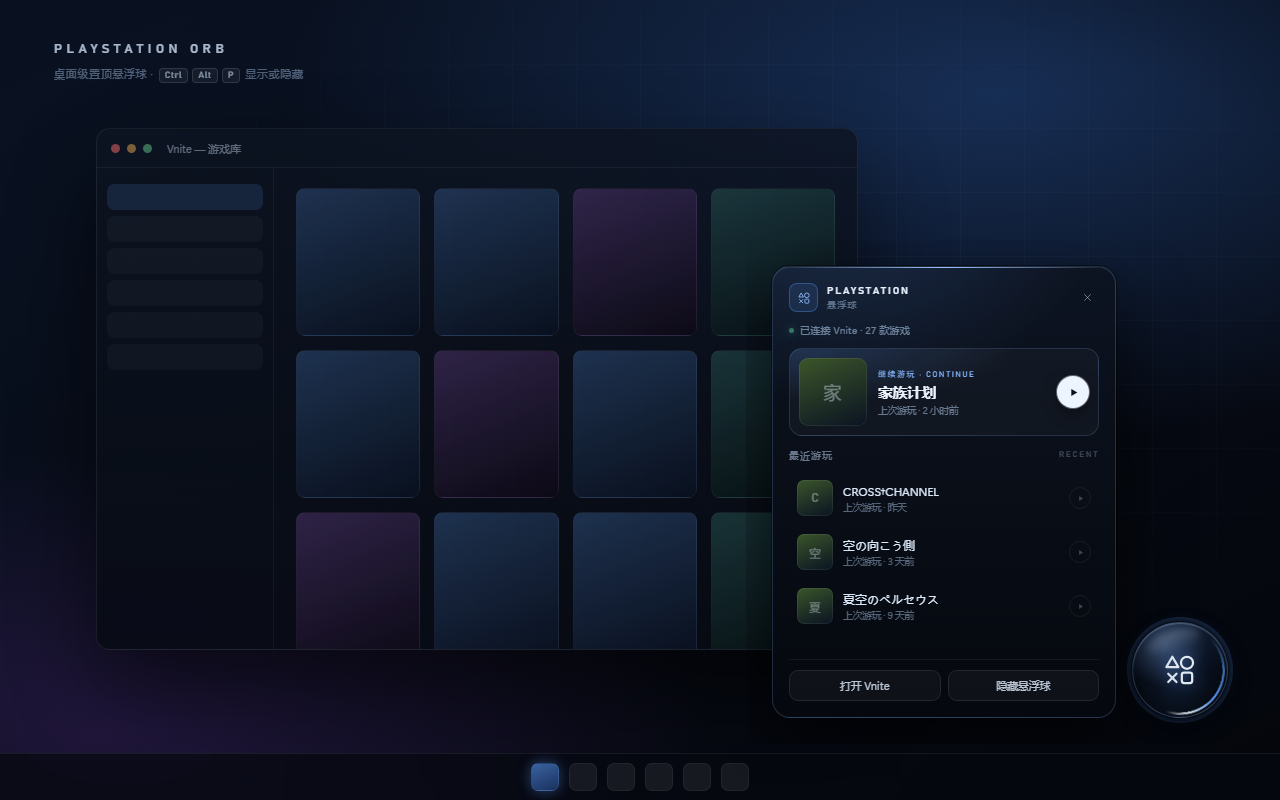
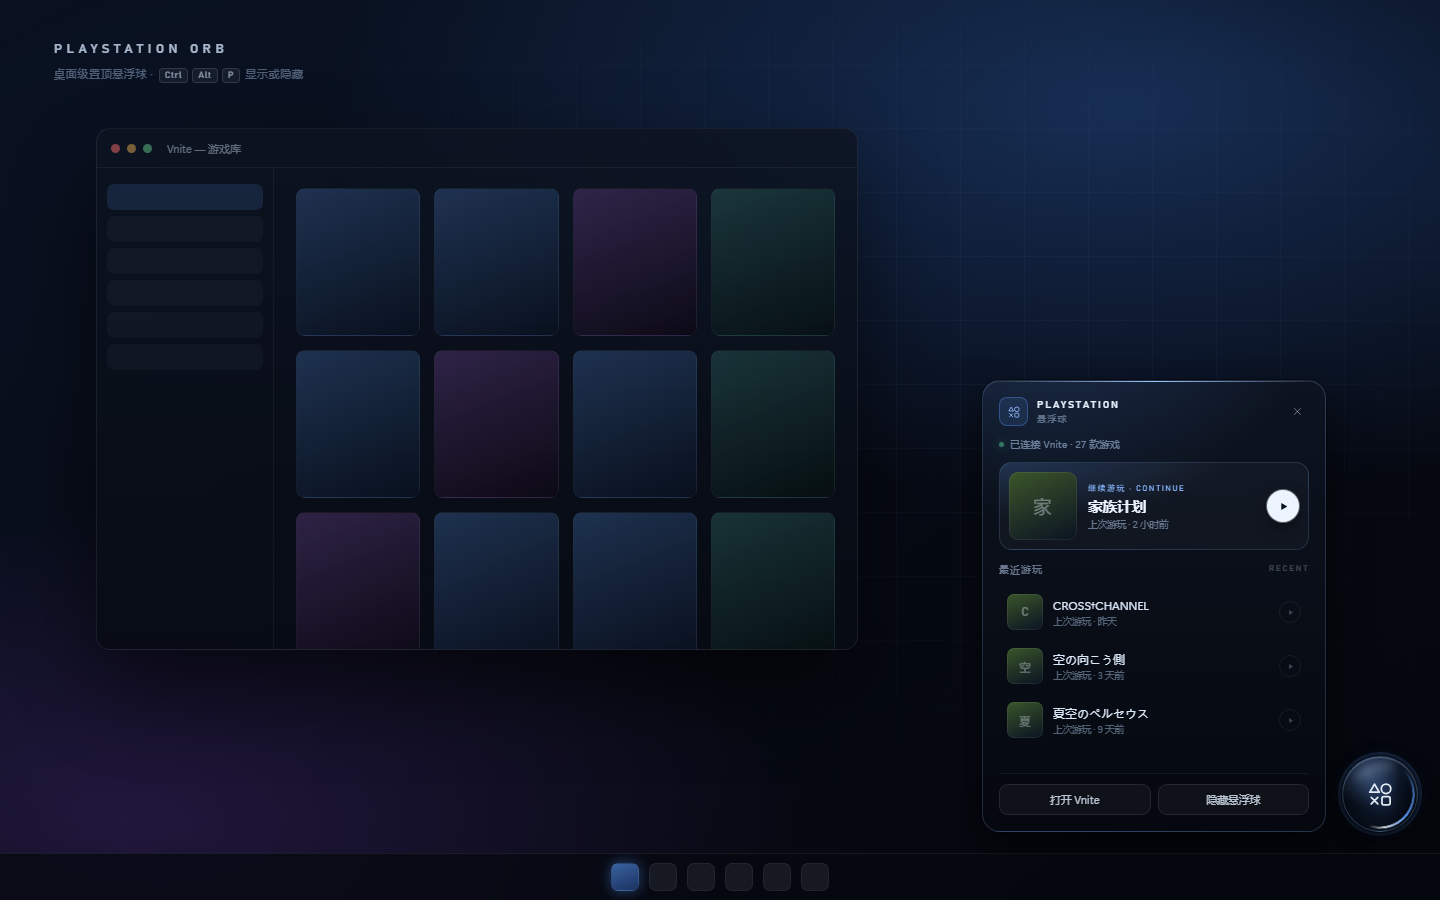
fix: 悬浮球缩小尺寸并修复点击展开时的闪动
窗口改为固定展开尺寸，展开/收起不再 setBounds；透明区域用 setIgnoreMouseEvents 穿透，点击时球体不再跳动。

diff --git a/plugin/orb.js b/plugin/orb.js
@@ -30,8 +30,9 @@
     closing: false,
     launching: false,
     dragging: false,
-    size: 96,
-    pad: 14,
+    size: 76,
+    pad: 22,
+    gap: 16,
     panelW: 344,
     panelH: 452,
     sound: true,
@@ -95,32 +96,67 @@
   function applyLayout(payload) {
     if (!payload) return;
     if (Number(payload.pad)) state.pad = Number(payload.pad);
+    if (Number(payload.gap)) state.gap = Number(payload.gap);
     if (Number(payload.orbSize)) state.size = Number(payload.orbSize);
     if (Number(payload.panelWidth)) state.panelW = Number(payload.panelWidth);
     if (Number(payload.panelHeight)) state.panelH = Number(payload.panelHeight);
     root.style.setProperty('--pad', `${state.pad}px`);
+    root.style.setProperty('--gap', `${state.gap}px`);
     root.style.setProperty('--orb-size', `${state.size}px`);
     root.style.setProperty('--panel-w', `${state.panelW}px`);
     root.style.setProperty('--panel-h', `${state.panelH}px`);
     if (payload.accent) root.dataset.accent = payload.accent;
     if (payload.side) root.dataset.side = payload.side;
-    if (payload.vertical) root.dataset.vertical = payload.vertical;
+    if (payload.anchor) root.dataset.anchor = payload.anchor;
   }
 
-  function placeOrb({ open, width, height } = {}) {
-    const w = width || window.innerWidth;
-    const h = height || window.innerHeight;
-    const { pad, size, panelW, panelH } = state;
-    if (!open) {
-      orb.style.left = `${pad}px`;
-      orb.style.top = `${pad}px`;
+  // 透明窗口固定为展开尺寸，只有悬浮球与面板区域接收鼠标，其余区域穿透到桌面。
+  let ignoring = null;
+  const pointer = { x: -1, y: -1 };
+
+  function setIgnore(next) {
+    if (ignoring === next) return;
+    ignoring = next;
+    api.setIgnore(next);
+  }
+
+  function inside(el, x, y, grow = 0) {
+    const rect = el.getBoundingClientRect();
+    if (!rect.width || !rect.height) return false;
+    return x >= rect.left - grow && x <= rect.right + grow && y >= rect.top - grow && y <= rect.bottom + grow;
+  }
+
+  function interactiveAt(x, y) {
+    if (inside(orb, x, y, 4)) return true;
+    return !panel.hidden && inside(panel, x, y);
+  }
+
+  function syncIgnore() {
+    if (state.dragging || press) return;
+    if (pointer.x < 0) {
+      setIgnore(true);
       return;
     }
-    orb.style.left = `${root.dataset.side === 'left' ? w - pad - size : pad}px`;
-    orb.style.top = `${root.dataset.vertical === 'above' ? h - pad - size : pad}px`;
-    panel.style.left = `${root.dataset.side === 'left' ? pad : w - pad - panelW}px`;
-    panel.style.top = `${root.dataset.vertical === 'above' ? pad : h - pad - panelH}px`;
+    setIgnore(!interactiveAt(pointer.x, pointer.y));
   }
+
+  let ignoreFrame = 0;
+
+  window.addEventListener('mousemove', event => {
+    pointer.x = event.clientX;
+    pointer.y = event.clientY;
+    if (ignoreFrame) return;
+    ignoreFrame = window.requestAnimationFrame(() => {
+      ignoreFrame = 0;
+      syncIgnore();
+    });
+  });
+
+  window.addEventListener('mouseleave', () => {
+    pointer.x = -1;
+    pointer.y = -1;
+    syncIgnore();
+  });
 
   // ————— 数据 —————
   function relative(iso) {
@@ -253,42 +289,33 @@
   // ————— 展开 / 收起 —————
   async function expand() {
     if (state.expanded || state.closing) return;
+    state.expanded = true;
     play('open');
-    let layout;
     try {
-      layout = await api.expand();
+      applyLayout(await api.expand());
     } catch (error) {
       setStatus('无法展开菜单', 'error');
-      return;
     }
-    applyLayout(layout);
-    state.expanded = true;
-    placeOrb({ open: true, width: layout?.width, height: layout?.height });
     panel.hidden = false;
     window.requestAnimationFrame(() => panel.classList.add('is-open'));
+    syncIgnore();
     await refresh();
   }
 
-  async function collapse({ silent = false } = {}) {
+  function collapse({ silent = false } = {}) {
     if (!state.expanded || state.closing) return;
     state.closing = true;
     state.launching = false;
     if (!silent) play('close');
     panel.classList.remove('is-open');
     state.expanded = false;
-    window.setTimeout(async () => {
+    Promise.resolve(api.collapse()).then(applyLayout).catch(() => {});
+    window.setTimeout(() => {
       panel.hidden = true;
       launchLayer.hidden = true;
-      let layout = null;
-      try {
-        layout = await api.collapse();
-      } catch (error) {
-        /* 窗口可能已经隐藏 */
-      }
-      applyLayout(layout);
-      placeOrb({ open: false, width: layout?.width, height: layout?.height });
       state.closing = false;
-    }, 170);
+      syncIgnore();
+    }, 180);
   }
 
   function hardCollapse() {
@@ -298,7 +325,7 @@
     panel.classList.remove('is-open');
     panel.hidden = true;
     launchLayer.hidden = true;
-    placeOrb({ open: false });
+    syncIgnore();
   }
 
   // ————— 操作 —————
@@ -390,6 +417,8 @@
     if (orb.hasPointerCapture(event.pointerId)) orb.releasePointerCapture(event.pointerId);
     if (moved) {
       api.dragEnd();
+      // 松手时指针就在球上，保持在可点击状态，等下一次移动再重新判定。
+      setIgnore(false);
       return;
     }
     play('tap');
@@ -401,6 +430,7 @@
   orb.addEventListener('pointercancel', event => {
     if (!press) return;
     press = null;
+    state.dragging = false;
     orb.classList.remove('is-press', 'is-dragging');
     if (event.pointerId !== undefined && orb.hasPointerCapture(event.pointerId)) {
       orb.releasePointerCapture(event.pointerId);
@@ -431,7 +461,7 @@
     if (event.key === 'Escape' && state.expanded) collapse();
   });
 
-  window.addEventListener('resize', () => placeOrb({ open: state.expanded }));
+  api.onLayout(payload => applyLayout(payload));
   api.onBlur(() => collapse({ silent: true }));
   api.onForceCollapse(() => hardCollapse());
 
@@ -441,9 +471,9 @@
       state.sound = data.sound !== false;
       applyLayout(data);
       render(data);
-      placeOrb({ open: false });
+      setIgnore(true);
       if (window.__PS_ORB_DEMO__) {
-        await new Promise(resolve => window.setTimeout(resolve, 280));
+        await new Promise(resolve => window.setTimeout(resolve, 320));
         await expand();
       }
     } catch (error) {
@@ -466,24 +496,29 @@
     const base = {
       games,
       total: 27,
-      orbSize: 96,
-      pad: 26,
+      orbSize: 76,
+      pad: 22,
+      gap: 16,
       panelWidth: 344,
       panelHeight: 452,
       accent: 'blue',
+      side: 'left',
+      anchor: 'bottom',
       sound: false
     };
     return {
-      bootstrap: async () => ({ ...base, width: 148, height: 148 }),
+      bootstrap: async () => base,
       games: async () => base,
-      expand: async () => ({ ...base, width: 508, height: 504, side: 'left', vertical: 'above' }),
-      collapse: async () => ({ ...base, width: 148, height: 148 }),
+      expand: async () => base,
+      collapse: async () => base,
       dragStart: () => {},
       dragMove: () => {},
       dragEnd: () => {},
+      setIgnore: () => {},
       launch: async () => ({ ok: true }),
       openVnite: async () => true,
       hide: async () => true,
+      onLayout: () => {},
       onBlur: () => {},
       onForceCollapse: () => {}
     };

diff --git a/plugin/orb.css b/plugin/orb.css
@@ -1,7 +1,8 @@
 :root {
   --accent: #5b9dff;
-  --orb-size: 96px;
-  --pad: 14px;
+  --orb-size: 76px;
+  --pad: 22px;
+  --gap: 16px;
   --panel-w: 344px;
   --panel-h: 452px;
 }
@@ -60,7 +61,7 @@ body {
 .orb {
   position: absolute;
   left: var(--pad);
-  top: var(--pad);
+  bottom: var(--pad);
   z-index: 2;
   display: block;
   width: var(--orb-size);
@@ -73,8 +74,19 @@ body {
   touch-action: none;
 }
 
+/* 面板在悬浮球左侧时，悬浮球贴窗口右边 */
+[data-side="left"] .orb {
+  left: calc(var(--pad) + var(--panel-w) + var(--gap));
+}
+
+/* 面板在悬浮球下方时，悬浮球贴窗口顶部 */
+[data-anchor="top"] .orb {
+  top: var(--pad);
+  bottom: auto;
+}
+
 .orb:hover {
-  transform: scale(1.045);
+  transform: scale(1.03);
 }
 
 .orb:focus {
@@ -82,22 +94,22 @@ body {
 }
 
 .orb:focus-visible .orb-shell {
-  border-color: rgba(196, 222, 255, 0.52);
+  border-color: rgba(196, 222, 255, 0.42);
   box-shadow:
     inset 0 1px 1px rgba(255, 255, 255, 0.25),
     inset 0 -14px 26px rgba(0, 0, 0, 0.6),
     0 8px 20px rgba(0, 0, 0, 0.5),
-    0 0 0 2px color-mix(in srgb, var(--accent) 55%, transparent);
+    0 0 0 1px color-mix(in srgb, var(--accent) 50%, transparent);
 }
 
 .orb.is-press {
-  transform: scale(0.93);
+  transform: scale(0.95);
   transition-duration: 0.09s;
 }
 
 .orb.is-dragging {
   cursor: grabbing;
-  transform: scale(0.96);
+  transform: scale(0.97);
 }
 
 .orb-halo {
@@ -190,6 +202,8 @@ body {
 .panel {
   position: absolute;
   z-index: 3;
+  left: var(--pad);
+  top: var(--pad);
   display: flex;
   flex-direction: column;
   gap: 11px;
@@ -203,27 +217,30 @@ body {
     radial-gradient(130% 80% at 20% -18%, color-mix(in srgb, var(--accent) 20%, transparent), transparent 60%),
     linear-gradient(180deg, rgba(13, 20, 33, 0.975), rgba(5, 8, 14, 0.99));
   box-shadow:
-    0 30px 70px rgba(0, 0, 0, 0.66),
+    0 18px 44px rgba(0, 0, 0, 0.62),
     0 0 0 1px rgba(0, 0, 0, 0.42),
     inset 0 1px 0 rgba(255, 255, 255, 0.08);
   opacity: 0;
-  transform: scale(0.86);
+  transform: scale(0.88);
   transform-origin: 100% 100%;
   pointer-events: none;
-  transition: opacity 0.2s ease, transform 0.28s cubic-bezier(0.22, 1, 0.28, 1);
+  transition: opacity 0.18s ease, transform 0.26s cubic-bezier(0.22, 1, 0.28, 1);
   -webkit-app-region: no-drag;
   app-region: no-drag;
 }
 
+/* 面板在悬浮球右侧 */
 [data-side="right"] .panel {
+  left: calc(var(--pad) + var(--orb-size) + var(--gap));
   transform-origin: 0 100%;
 }
 
-[data-vertical="below"][data-side="left"] .panel {
+/* 面板在悬浮球下方 */
+[data-anchor="top"] .panel {
   transform-origin: 100% 0;
 }
 
-[data-vertical="below"][data-side="right"] .panel {
+[data-anchor="top"][data-side="right"] .panel {
   transform-origin: 0 0;
 }
 

diff --git a/plugin/orb.html b/plugin/orb.html
@@ -7,7 +7,7 @@
   <link rel="stylesheet" href="orb.css" />
 </head>
 <body>
-  <div id="app" class="ps-orb-root" data-accent="blue" data-side="left" data-vertical="above">
+  <div id="app" class="ps-orb-root" data-accent="blue" data-side="left" data-anchor="bottom">
     <button class="orb" type="button" aria-label="PlayStation 悬浮球" title="点击展开最近游玩">
       <span class="orb-halo" aria-hidden="true"></span>
       <span class="orb-glow" aria-hidden="true"></span>

diff --git a/preview/index.html b/preview/index.html
@@ -155,11 +155,11 @@
     }
     .orb-stage {
       position: absolute;
-      right: 26px;
-      bottom: 56px;
+      right: 0;
+      bottom: 46px;
       z-index: 5;
-      width: 508px;
-      height: 504px;
+      width: 480px;
+      height: 496px;
       border: 0;
       background: transparent;
       color-scheme: normal;

diff --git a/plugin/README.md b/plugin/README.md
@@ -21,7 +21,7 @@
 
 ### 安装包（推荐）
 
-1. 下载 `local-vnite-ps-orb-1.0.0.vnpkg`
+1. 下载 `local-vnite-ps-orb-1.0.1.vnpkg`
 2. 打开 Vnite → 设置 → 插件 → 安装本地插件，选择该文件
 3. 启用「PlayStation 悬浮球」
 
@@ -52,7 +52,7 @@
 
 | 配置项 | 默认值 | 说明 |
 | --- | --- | --- |
-| 悬浮球大小 | 中 (96px) | 小 84px / 中 96px / 大 112px |
+| 悬浮球大小 | 中 (76px) | 小 64px / 中 76px / 大 88px |
 | 强调色 | 经典蓝 | 经典蓝 / 午夜紫 / 极光青 |
 | 音效 | 开 | 展开、合上与启动的短提示音 |
 | 快捷键 Ctrl+Alt+P | 开 | 关闭后不再注册全局快捷键 |
@@ -61,7 +61,8 @@
 
 ## 说明
 
-- 悬浮球窗口大小会随状态变化：收起时只有球体加一圈光晕，展开时向左（或向上）扩展出菜单，球体本身在屏幕上的位置保持不变。
+- 窗口尺寸始终按展开后的布局固定，展开/收起只切换菜单显隐，悬浮球不会移动，也不会因为改窗口大小而闪动。
+- 透明区域通过 `setIgnoreMouseEvents(true, { forward: true })` 让鼠标穿透到桌面，只有悬浮球和菜单区域会接收点击。
 - 菜单里的「最近游玩」按 `lastRunDate` 排序，最多显示四款（一款主推 + 三款列表）。
 - 启动游戏沿用 Vnite 的 `game:start-from-url` 通道，和插件外的手动启动行为一致。
 - 悬浮球始终置顶，独占全屏的游戏可能覆盖在它之上；这是系统层面的正常行为。
@@ -72,7 +73,7 @@
 - 主进程用 `BrowserWindow` 创建透明窗口：`frame: false`、`transparent: true`、`alwaysOnTop`、`skipTaskbar`
 - 渲染层通过 preload 暴露的最小 IPC 接口操作窗口，开启 `contextIsolation`，关闭 `nodeIntegration`
 - 拖动由渲染层上报指针位移、主进程换算屏幕坐标后 `setPosition`，避免 `-webkit-app-region: drag` 吞掉点击
-- 展开时按屏幕可用区域选择菜单在球的左侧还是右侧、上方还是下方
+- 展开时按悬浮球所在的屏幕半区决定菜单在球的左侧还是右侧、上方还是下方，始终朝屏幕内侧展开
 - 插件停用会关闭窗口、注销快捷键、移除 IPC 与显示器监听
 
 ## 兼容性
